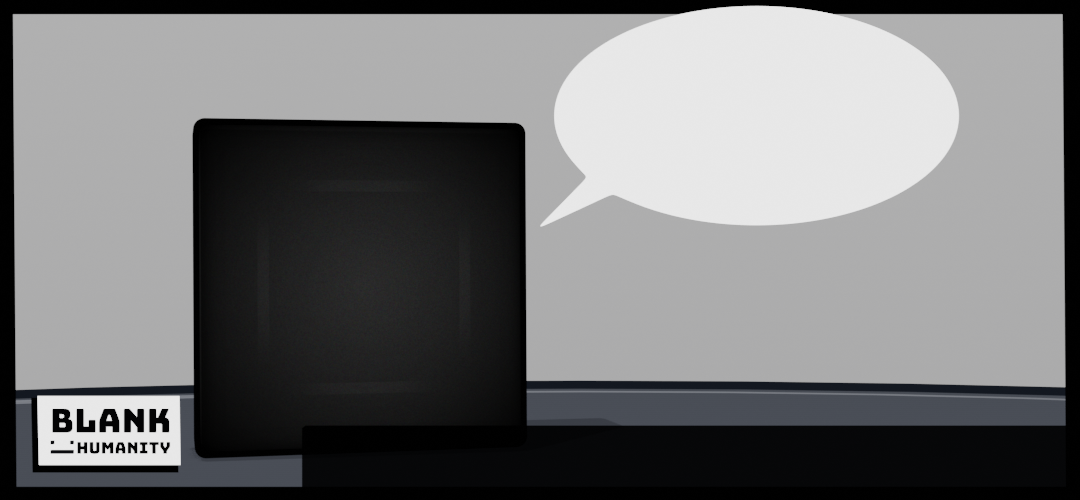
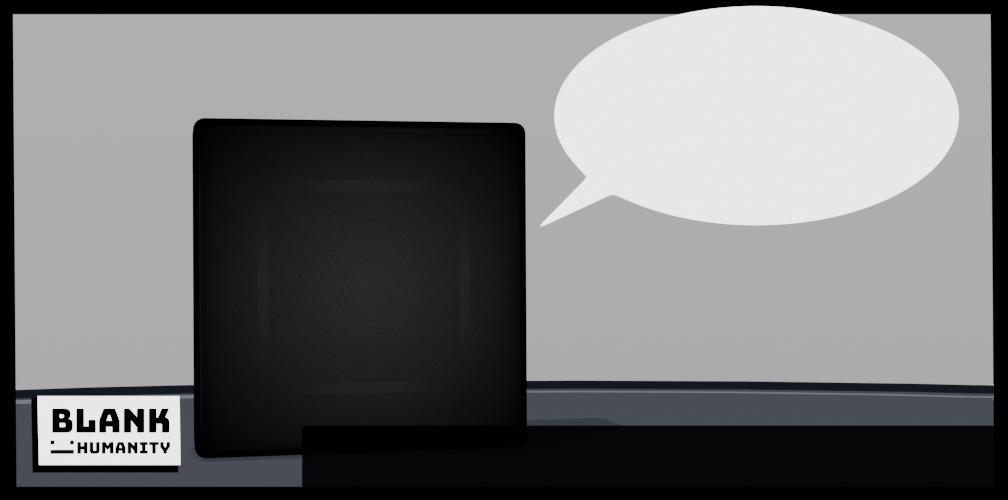
twitter size it for normal bg currently

diff --git a/src/components/modules/Emote/EmoteSection/EmoteSection.js b/src/components/modules/Emote/EmoteSection/EmoteSection.js
@@ -25,8 +25,8 @@ export default function Emote(props) {
           {emotes.map((entry, i) => {
             console.log(`Initializer ${initializer} emotes ${entry.emote}`)
             return (
-                <InnerSection key={entry.emote} width='400px' style={{margin: "1rem"}}>
-                  <img src={`/api/emote/${tokenId}/${entry.emote}/med`} width="400px"/>
+                <InnerSection key={entry.emote} width='504px' style={{margin: "1rem"}}>
+                  <img src={`/api/emote/${tokenId}/${entry.emote}/med`} width="504px"/>
                   <a style={{display:"block", fontSize:"small"}} href={`/api/emote/${tokenId}/${entry.emote}/med`} download={`${tokenId}-${entry.emote}.png`}>Download {entry.emote}</a>
                 </InnerSection>
               );

diff --git a/src/utils/emoteUtils.js b/src/utils/emoteUtils.js
@@ -110,7 +110,7 @@ async function drawEmote(context, initializer, emote, caption, blankImage, scale
     context.fillStyle = 'white'
     let fontSize = scale <= .5 ? 1.5 * scale : .8 * scale;
     context.font = `1.5rem Bungee`;
-    context.fillText(caption, 320, 465 )
+    context.fillText(caption, 320, 470 )
     console.log(emote)
     if(['lovesThis', 'sendLove', 'sendsLove', 'CUP', 'isAWinner', 'earth', 'Puzzle'].indexOf(emote) >= 0) {
         const emoteImg = await Canvas.loadImage(`public/${generateEmoteImage(emote)}`);

diff --git a/src/pages/api/emote/[tokenId]/[emote]/[size]/index.js b/src/pages/api/emote/[tokenId]/[emote]/[size]/index.js
@@ -20,7 +20,7 @@ const createEmote = async (
   registerFont('public/Bungee-Regular.ttf', { family: 'Bungee' });
   registerFont('public/FiraCode-Regular.ttf', { family: 'Fira Code' });
 
-  const WIDTH = 1080 * scale;
+  const WIDTH = 1008 * scale;
   const HEIGHT = 500 * scale;
   const DX = 0
   const DY = 0
